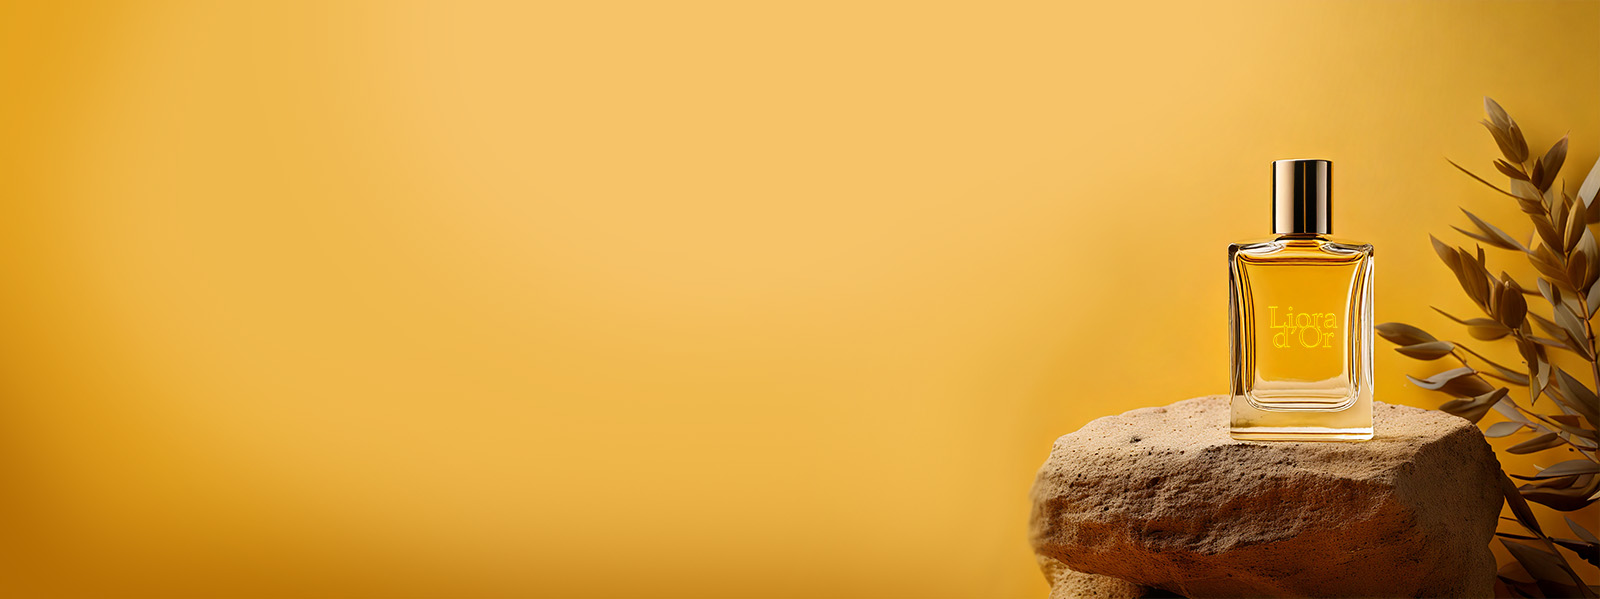
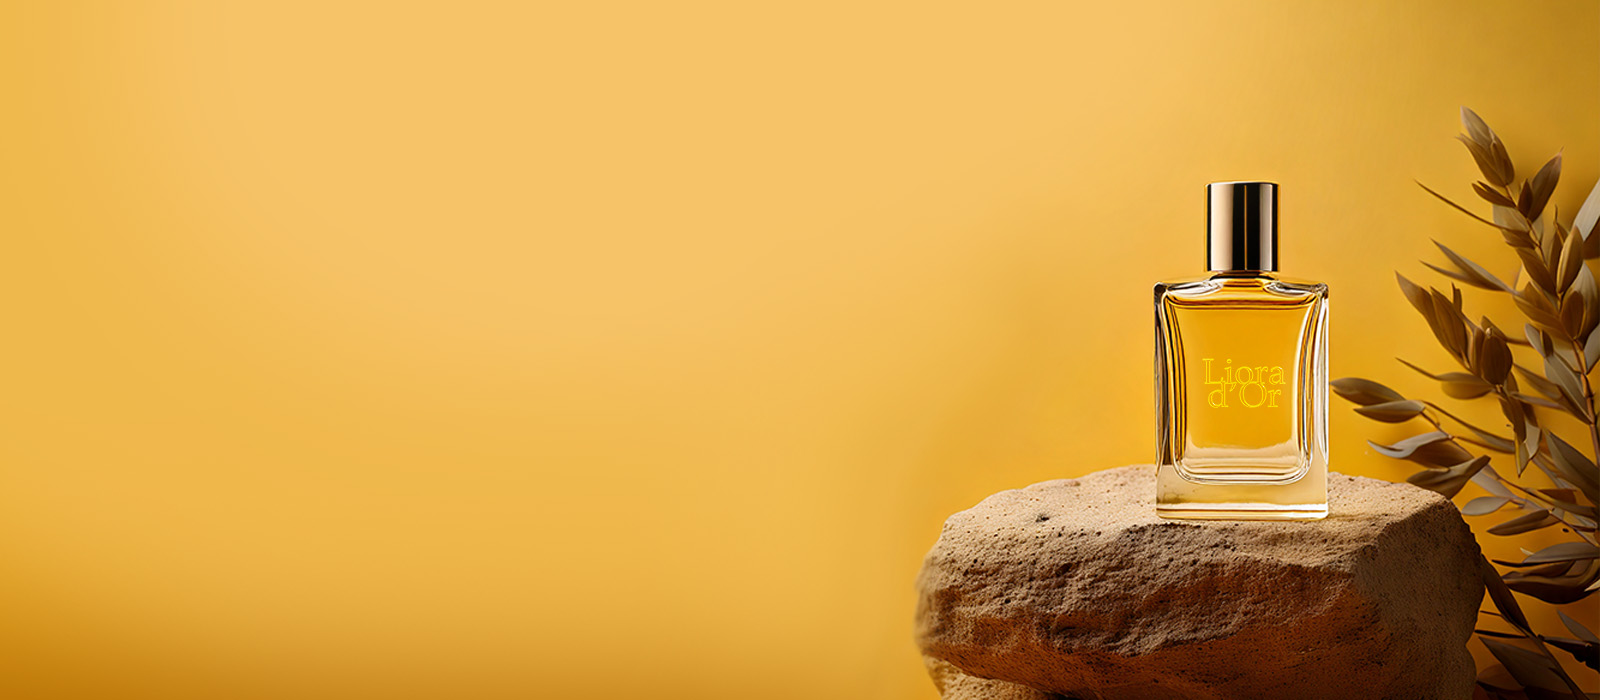
added shop component

Changed region(s): [[0.5625, 0.1503, 1.0, 1.0], [0.0, 0.0, 0.2188, 0.9917]]

diff --git a/src/app/page.js b/src/app/page.js
@@ -1,24 +1,32 @@
 import Image from "next/image";
+import FadeInText from "./components/FadeInText";
+import Shop from "./components/Shop";
 
 export default function Home() {
   return (
-    <div className="w-full h-[500px] relative overflow-hidden">
+    <>
+      <div className="w-full h-[600px] relative overflow-hidden">
+        <div className="w-full h-full z-10 flex flex-col items-start justify-center px-6 sm:px-40 py-10 space-y-2">
+          <div className="inline-block">
+            <FadeInText text="Our" className="inline-block mr-3 text-white font-serif text-5xl" />
+            <FadeInText text="Liora " className="inline-block text-white font-serif text-9xl" />
+            <FadeInText text="d'Or " className="inline-block text-white font-serif text-9xl" />
+            <FadeInText text="Collection " className="inline-block text-white font-serif text-5xl" />
+          
+          </div>
+          <button className="scalein fill">
+            Shop Now
+          </button>
 
-      <div className="w-full h-full z-10 flex flex-col items-start justify-center px-6 sm:px-40 py-10 space-y-2">
-        <span className="text-white font-serif text-8xl">
-          Our Liora d'Or Collection
-        </span>
-        <span className="text-white text-lg font-bold">
-          Discover the Fragrance
-        </span>
+        </div>
+        <Image
+          src="/hero.jpg"
+          alt="Hero Image"
+          fill
+          className="object-cover object-center sm:object-[70%] -z-10"
+        />
       </div>
-
-      <Image
-        src="/hero.jpg"
-        alt="Hero Image"
-        fill
-        className="object-cover object-center sm:object-[70%] -z-10"
-      />
-    </div>
+      <Shop/>
+    </>
   );
 }

diff --git a/src/app/globals.css b/src/app/globals.css
@@ -4,3 +4,88 @@
   --background: #ffffff;
   --foreground: #171717;
 }
+
+body {
+  background-color: rgb(255, 241, 196);
+}
+
+.scalein {
+  opacity: 0;
+  transform: scale(0.6);
+  animation: fadeInScale 1s forwards 1.5s;
+}
+
+.fill:hover {
+  color: rgb(255, 201, 121);
+  scale: 1.1;
+}
+
+.fill:before {
+  content: "";
+  position: absolute;
+  background: #ffffff;
+  bottom: 0;
+  left: 0;
+  right: 0;
+  top: 100%;
+  z-index: -1;
+  -webkit-transition: top 0.13s ease-in;
+}
+
+.fill:hover:before {
+  top: 0;
+}
+
+button {
+  position: relative;
+  display:block;
+  height: 45px;
+  width: 150px;
+  margin: 10px 7px;
+  padding: 5px 5px;
+  font-weight: 500;
+  font-size: 15px;
+  letter-spacing: 2px;
+  color: hsl(0, 0%, 100%);
+  border: 2px #ffffff solid;
+  text-transform: uppercase;
+  outline: 0;
+  overflow:hidden;
+  background: none;
+  z-index: 1;
+  cursor: pointer;
+  transition:         0.1s ease-in;
+  -o-transition:      0.1s ease-in;
+  -ms-transition:     0.1s ease-in;
+  -moz-transition:    0.1s ease-in;
+  -webkit-transition: 0.1s ease-in;
+}
+
+@keyframes fadeInScale {
+  0% {
+    opacity: 0;
+    transform: scale(0.8);
+  }
+  100% {
+    opacity: 1;
+    transform: scale(1);
+  }
+}
+
+
+.floatin {
+  opacity: 0;
+  transform: translateY(200%);
+  animation: fadeInUp 3s cubic-bezier(0.25, 1.25, 0.5, 1) 1s forwards; /* Custom curve */
+}
+
+@keyframes fadeInUp {
+  0% {
+    opacity: 0;
+    transform: translateY(200%) scale(250%);
+  }
+  100% {
+    opacity: 1;
+    transform: translateY(0) scale(100%);
+  }
+}

diff --git a/src/app/components/Navbar.jsx b/src/app/components/Navbar.jsx
@@ -4,19 +4,20 @@ import { FiSearch, FiShoppingCart } from "react-icons/fi";
 
 export default function Navbar(){
     return (
-        <div className="flex justify-between m-3 items-center">
+        <div className="pl-10 pr-10 fixed top-0 left-0 w-full z-20 flex justify-between text-white font-light p-3 items-center">
             <Image
                 src="/favicon.png"
-                width={50}
-                height={50}
+                width={30}
+                height={30}
+                className="floatin"
                 alt="Picture of the author"
             />
-            <Link href="/">Home</Link>
-            <Link href="/">About</Link>
-            <Link href="/">Shop</Link>
+            <Link href="/" className="floatin">Home</Link>
+            <Link href="/" className="floatin">About</Link>
+            <Link href="/" className="floatin"> Shop</Link>
             <div className="flex gap-3">
-                <FiShoppingCart />
-                <FiSearch />
+                <FiShoppingCart className="floatin"/>
+                <FiSearch className="floatin"/>
             </div>
         </div>
         

diff --git a/src/app/components/Shop.jsx b/src/app/components/Shop.jsx
@@ -1,0 +1,21 @@
+import ShopItem from "./Item";
+
+export default function Shop(){
+    return (
+        <div className="flex-col text-amber-400 ml-10 mb-10">
+            
+            <div className="text-7xl font-extralight mt-10 font-serif">
+                Most Loved Scents
+            </div>
+            <div className="text-xl font-light font-serif">
+                Uncover the luxury of rare, must-have fragrances—exclusively for those who know. Limited, coveted, and always unforgettable.
+            </div>
+            <div className="mt-10 flex flex-wrap gap-6 justify-center overflow-x-auto">
+                <ShopItem/>
+                <ShopItem/>
+                <ShopItem/>
+                <ShopItem/>
+            </div>
+        </div>
+    )
+}

diff --git a/src/app/components/FadeInText.jsx b/src/app/components/FadeInText.jsx
@@ -1,0 +1,23 @@
+'use client'
+import React from "react";
+import { motion } from "framer-motion";
+
+const FadeInText = ({ text, className }) => {
+  return (
+    <div className={className}>
+      {text.split("").map((letter, idx) => (
+        <motion.span
+          key={idx}
+          initial={{ opacity: 0, y: 12, filter: "blur(10px)" }}
+          animate={{ opacity: 1, y: 0, filter: "blur(0px)" }}
+          transition={{ duration: 0.5, delay: idx * 0.05 }}
+          className="inline-block"
+        >
+          {letter === " " ? "\u00A0" : letter}
+        </motion.span>
+      ))}
+    </div>
+  );
+};
+
+export default FadeInText;

diff --git a/src/app/components/Item.jsx b/src/app/components/Item.jsx
@@ -1,0 +1,16 @@
+export default function ShopItem() {
+    return (
+        <div className="w-[20%] h-[500px] p-4">
+            <img
+                src="test.png"
+                alt="Product"
+                className="w-full h-auto object-cover rounded-md"
+            />
+            <h3 className="text-lg font-semibold mt-2">Product Name</h3>
+            <p className="text-gray-500 text-sm mt-1">$19.99</p>
+            <button className="mt-3 w-full bg-blue-500 text-white py-2 rounded-md hover:bg-blue-600">
+                Add to Cart
+            </button>
+        </div>
+    );
+}
